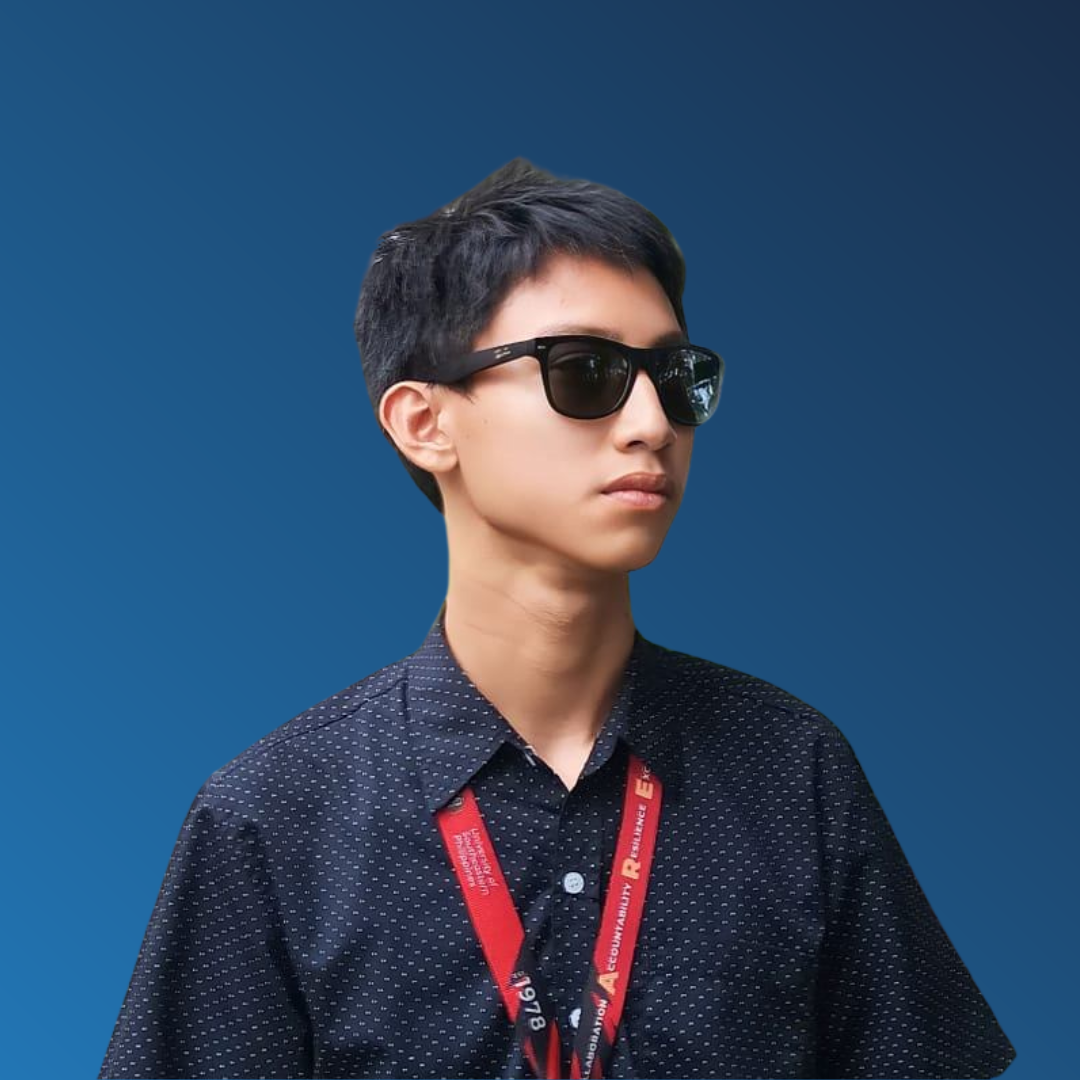
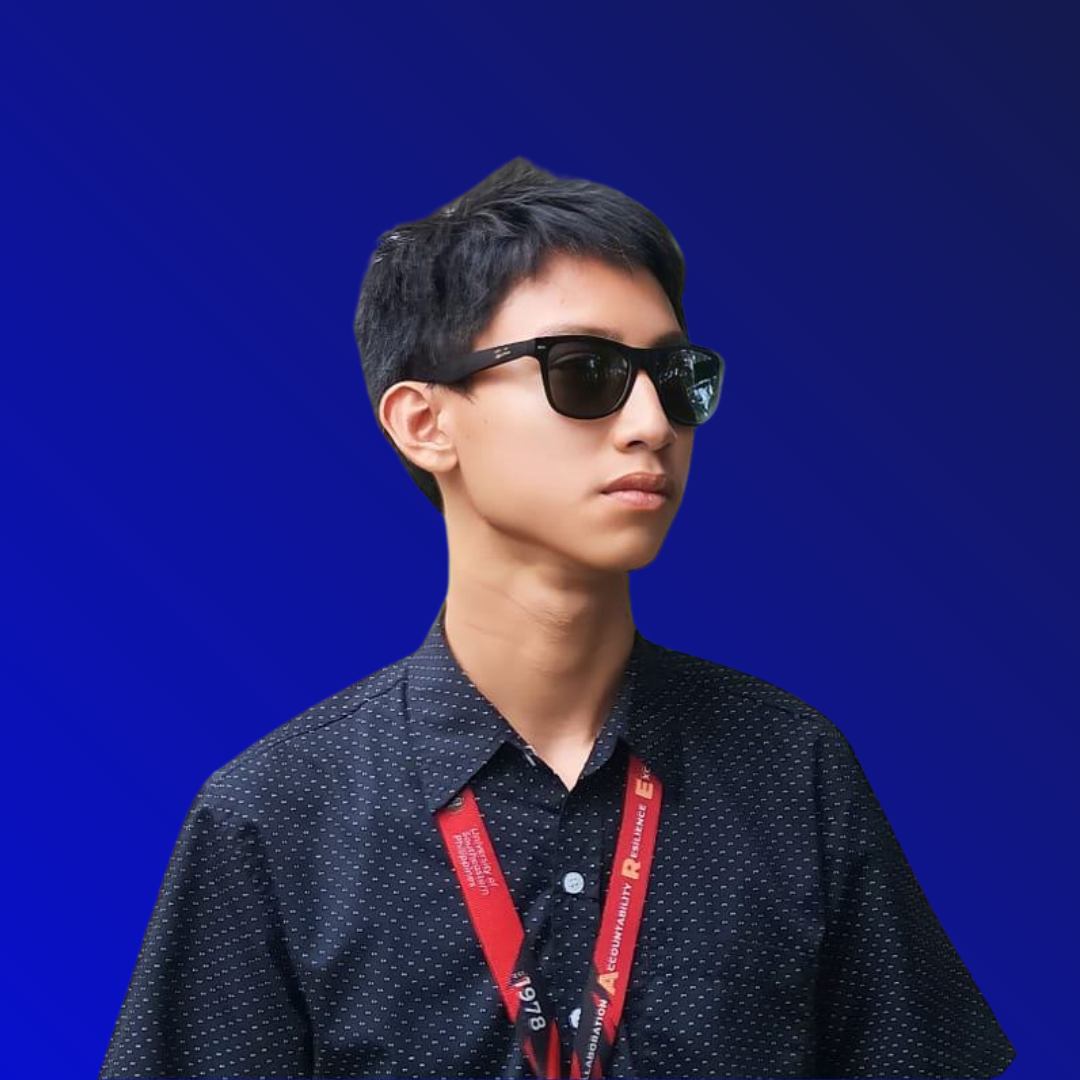
Color change

diff --git a/assets/css/main.css b/assets/css/main.css
@@ -1,28 +1,30 @@
 /* Fonts */
 :root {
-  --default-font: "Roboto",  system-ui, -apple-system, "Segoe UI", Roboto, "Helvetica Neue", Arial, "Noto Sans", "Liberation Sans", sans-serif, "Apple Color Emoji", "Segoe UI Emoji", "Segoe UI Symbol", "Noto Color Emoji";
-  --heading-font: "Raleway",  sans-serif;
-  --nav-font: "Poppins",  sans-serif;
+  --default-font: "Roboto", system-ui, -apple-system, "Segoe UI", Roboto,
+    "Helvetica Neue", Arial, "Noto Sans", "Liberation Sans", sans-serif,
+    "Apple Color Emoji", "Segoe UI Emoji", "Segoe UI Symbol", "Noto Color Emoji";
+  --heading-font: "Raleway", sans-serif;
+  --nav-font: "Poppins", sans-serif;
 }
 
 /* Global Colors - The following color variables are used throughout the website. Updating them here will change the color scheme of the entire website */
-:root { 
+:root {
   --background-color: #ffffff; /* Background color for the entire website, including individual sections */
   --default-color: #444444; /* Default color used for the majority of the text content across the entire website */
   --heading-color: #124265; /* Color for headings, subheadings and title throughout the website */
-  --accent-color: #2487ce; /* Accent color that represents your brand on the website. It's used for buttons, links, and other elements that need to stand out */
+  --accent-color: #050deb; /* Accent color that represents your brand on the website. It's used for buttons, links, and other elements that need to stand out */
   --surface-color: #ffffff; /* The surface color is used as a background of boxed elements within sections, such as cards, icon boxes, or other elements that require a visual separation from the global background. */
   --contrast-color: #ffffff; /* Contrast color for text, ensuring readability against backgrounds of accent, heading, or default colors. */
 }
 
 /* Nav Menu Colors - The following color variables are used specifically for the navigation menu. They are separate from the global colors to allow for more customization options */
 :root {
-  --nav-color: #124265;  /* The default color of the main navmenu links */
-  --nav-hover-color: #2487ce; /* Applied to main navmenu links when they are hovered over or active */
+  --nav-color: #124265; /* The default color of the main navmenu links */
+  --nav-hover-color: #050deb; /* Applied to main navmenu links when they are hovered over or active */
   --nav-mobile-background-color: #ffffff; /* Used as the background color for mobile navigation menu */
   --nav-dropdown-background-color: #ffffff; /* Used as the background color for dropdown items that appear when hovering over primary navigation items */
   --nav-dropdown-color: #124265; /* Used for navigation links of the dropdown items in the navigation menu. */
-  --nav-dropdown-hover-color: #2487ce; /* Similar to --nav-hover-color, this color is applied to dropdown navigation links when they are hovered over. */
+  --nav-dropdown-hover-color: #050deb; /* Similar to --nav-hover-color, this color is applied to dropdown navigation links when they are hovered over. */
 }
 
 /* Color Presets - These classes override global colors when applied to any section or element, providing reuse of the sam color scheme. */
@@ -41,7 +43,7 @@
 }
 
 .accent-background {
-  --background-color: #2487ce;
+  --background-color: #050deb;
   --default-color: #ffffff;
   --heading-color: #ffffff;
   --accent-color: #ffffff;
@@ -89,7 +91,10 @@ h6 {
 .pulsating-play-btn {
   width: 94px;
   height: 94px;
-  background: radial-gradient(var(--accent-color) 50%, color-mix(in srgb, var(--accent-color), transparent 75%) 52%);
+  background: radial-gradient(
+    var(--accent-color) 50%,
+    color-mix(in srgb, var(--accent-color), transparent 75%) 52%
+  );
   border-radius: 50%;
   display: block;
   position: relative;
@@ -224,7 +229,8 @@ h6 {
   padding: 20px 0;
   transition: all 0.5s;
   z-index: 997;
-  border-bottom: 1px solid color-mix(in srgb, var(--accent-color), transparent 85%);
+  border-bottom: 1px solid
+    color-mix(in srgb, var(--accent-color), transparent 85%);
 }
 
 .header .logo {
@@ -239,8 +245,12 @@ h6 {
 .header .logo h1 {
   font-size: 30px;
   margin: 0;
-  font-weight: 300;
+  font-weight: bolder;
   color: var(--heading-color);
+}
+
+.accented {
+  color: var(--accent-color) !important;
 }
 
 .header .btn-getstarted,
@@ -328,7 +338,7 @@ h6 {
     padding-right: 0;
   }
 
-  .navmenu li:hover>a,
+  .navmenu li:hover > a,
   .navmenu .active,
   .navmenu .active:focus {
     color: var(--nav-hover-color);
@@ -367,11 +377,11 @@ h6 {
 
   .navmenu .dropdown ul a:hover,
   .navmenu .dropdown ul .active:hover,
-  .navmenu .dropdown ul li:hover>a {
+  .navmenu .dropdown ul li:hover > a {
     color: var(--nav-dropdown-hover-color);
   }
 
-  .navmenu .dropdown:hover>ul {
+  .navmenu .dropdown:hover > ul {
     opacity: 1;
     top: 100%;
     visibility: visible;
@@ -383,7 +393,7 @@ h6 {
     visibility: hidden;
   }
 
-  .navmenu .dropdown .dropdown:hover>ul {
+  .navmenu .dropdown .dropdown:hover > ul {
     opacity: 1;
     top: 0;
     left: -100%;
@@ -486,7 +496,7 @@ h6 {
     background-color: rgba(33, 37, 41, 0.1);
   }
 
-  .navmenu .dropdown>.dropdown-active {
+  .navmenu .dropdown > .dropdown-active {
     display: block;
     background-color: rgba(33, 37, 41, 0.03);
   }
@@ -513,7 +523,7 @@ h6 {
     transition: 0.3s;
   }
 
-  .mobile-nav-active .navmenu>ul {
+  .mobile-nav-active .navmenu > ul {
     display: block;
   }
 }
@@ -753,11 +763,11 @@ h6 {
   color: color-mix(in srgb, var(--default-color), transparent 20%);
 }
 
-.page-title .breadcrumbs ol li+li {
+.page-title .breadcrumbs ol li + li {
   padding-left: 10px;
 }
 
-.page-title .breadcrumbs ol li+li::before {
+.page-title .breadcrumbs ol li + li::before {
   content: "/";
   display: inline-block;
   padding-right: 10px;
@@ -777,7 +787,6 @@ section,
 }
 
 @media (max-width: 1199px) {
-
   section,
   .section {
     scroll-margin-top: 76px;
@@ -1713,7 +1722,7 @@ section,
 /*--------------------------------------------------------------
 # Contact Section
 --------------------------------------------------------------*/
-.contact .info-item+.info-item {
+.contact .info-item + .info-item {
   margin-top: 40px;
 }
 
@@ -1748,31 +1757,35 @@ section,
   height: 100%;
 }
 
-.contact .php-email-form input[type=text],
-.contact .php-email-form input[type=email],
+.contact .php-email-form input[type="text"],
+.contact .php-email-form input[type="email"],
 .contact .php-email-form textarea {
   font-size: 14px;
   padding: 10px 15px;
   box-shadow: none;
   border-radius: 0;
   color: var(--default-color);
-  background-color: color-mix(in srgb, var(--background-color), transparent 50%);
+  background-color: color-mix(
+    in srgb,
+    var(--background-color),
+    transparent 50%
+  );
   border-color: color-mix(in srgb, var(--default-color), transparent 80%);
 }
 
-.contact .php-email-form input[type=text]:focus,
-.contact .php-email-form input[type=email]:focus,
+.contact .php-email-form input[type="text"]:focus,
+.contact .php-email-form input[type="email"]:focus,
 .contact .php-email-form textarea:focus {
   border-color: var(--accent-color);
 }
 
-.contact .php-email-form input[type=text]::placeholder,
-.contact .php-email-form input[type=email]::placeholder,
+.contact .php-email-form input[type="text"]::placeholder,
+.contact .php-email-form input[type="email"]::placeholder,
 .contact .php-email-form textarea::placeholder {
   color: color-mix(in srgb, var(--default-color), transparent 70%);
 }
 
-.contact .php-email-form button[type=submit] {
+.contact .php-email-form button[type="submit"] {
   color: var(--contrast-color);
   background: var(--accent-color);
   border: 0;
@@ -1781,7 +1794,7 @@ section,
   border-radius: 4px;
 }
 
-.contact .php-email-form button[type=submit]:hover {
+.contact .php-email-form button[type="submit"]:hover {
   background: color-mix(in srgb, var(--accent-color), transparent 20%);
 }
 
@@ -1822,7 +1835,6 @@ section,
 }
 
 @media (max-width: 575px) {
-
   .portfolio-details .swiper-button-prev,
   .portfolio-details .swiper-button-next {
     display: none;
@@ -1974,7 +1986,8 @@ section,
   display: block;
   line-height: 1;
   padding: 8px 0 8px 15px;
-  border-left: 3px solid color-mix(in srgb, var(--default-color), transparent 70%);
+  border-left: 3px solid
+    color-mix(in srgb, var(--default-color), transparent 70%);
   margin: 20px 0;
   color: color-mix(in srgb, var(--default-color), transparent 20%);
   transition: 0.3s;

diff --git a/index.html b/index.html
@@ -47,7 +47,8 @@
         <a href="index.html" class="logo d-flex align-items-center me-auto">
           <!-- Uncomment the line below if you also wish to use an image logo -->
           <img src="assets/img/logo.png" alt="SecureFile" />
-          <h1 class="sitename">SecureFile</h1>
+          <h1 class="sitename">Secure</h1>
+          <h1 class="accented">File</h1>
         </a>
 
         <nav id="navmenu" class="navmenu">
@@ -79,7 +80,12 @@
         <div class="container">
           <div class="row justify-content-center" data-aos="zoom-out">
             <div class="col-xl-7 col-lg-9 text-center">
-              <h1>SecureFile</h1>
+              <div
+                class="logo d-flex align-items-center justify-content-center"
+              >
+                <h1 class="sitename">Secure</h1>
+                <h1 class="accented">File</h1>
+              </div>
               <p>Your files, your security. Access with confidence.</p>
             </div>
           </div>
